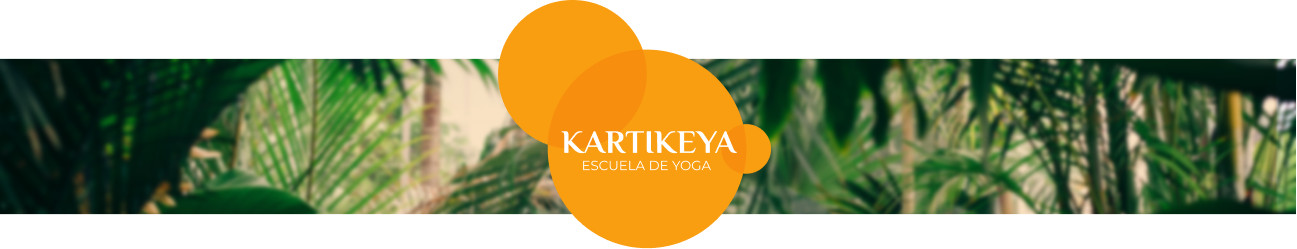
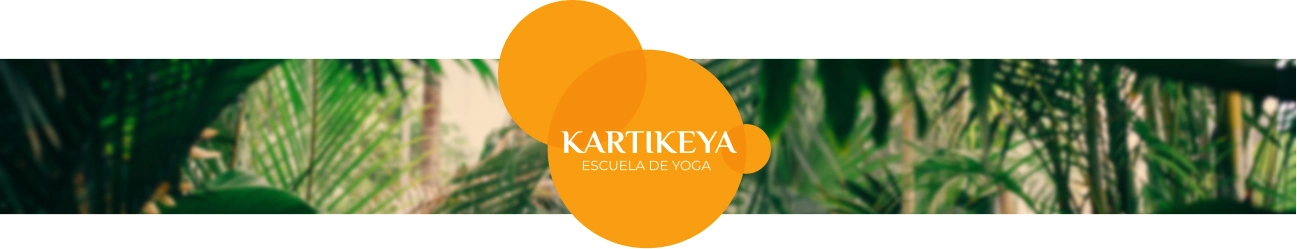
continued optimization
some minor changes to html and more image compression

diff --git a/index.html b/index.html
@@ -13,12 +13,12 @@
 <body>
     <section id="banner" class="pimg">
         <nav id="nav" class="cris-nav">
-            <logo class="logo-box">
+            <div class="logo-box">
                 <container class="dsk-logo">
                     <a href="#" class="font-800 cbl pr-2"> Cristobal Murillo</a>
                     <span class="font-100 cbl">Entrenador Elite</span>
                 </container>
-            </logo>
+            </div>
             <ul class="nav-list font-800">
                 <li> <a href="#kartikeya">Kartikeya</a> </li>
                 <li> <a href="#freshfusion">Fresh Fusion</a> </li>

diff --git a/scss/styles.scss b/scss/styles.scss
@@ -20,8 +20,9 @@
 //font-kit
 
  @font-face {
-    font-family: 'Montserrat', sans-serif;
+    font-family: sans-serif;
     font-display: swap;
+    font-style: normal;
  }
 
 //Home Styles *********************************************************************

diff --git a/css/styles.css b/css/styles.css
@@ -1,6 +1,7 @@
 @font-face {
-  font-family: 'Montserrat', sans-serif;
-  font-display: swap; }
+  font-family: sans-serif;
+  font-display: swap;
+  font-style: normal; }
 
 body {
   margin: 0;
